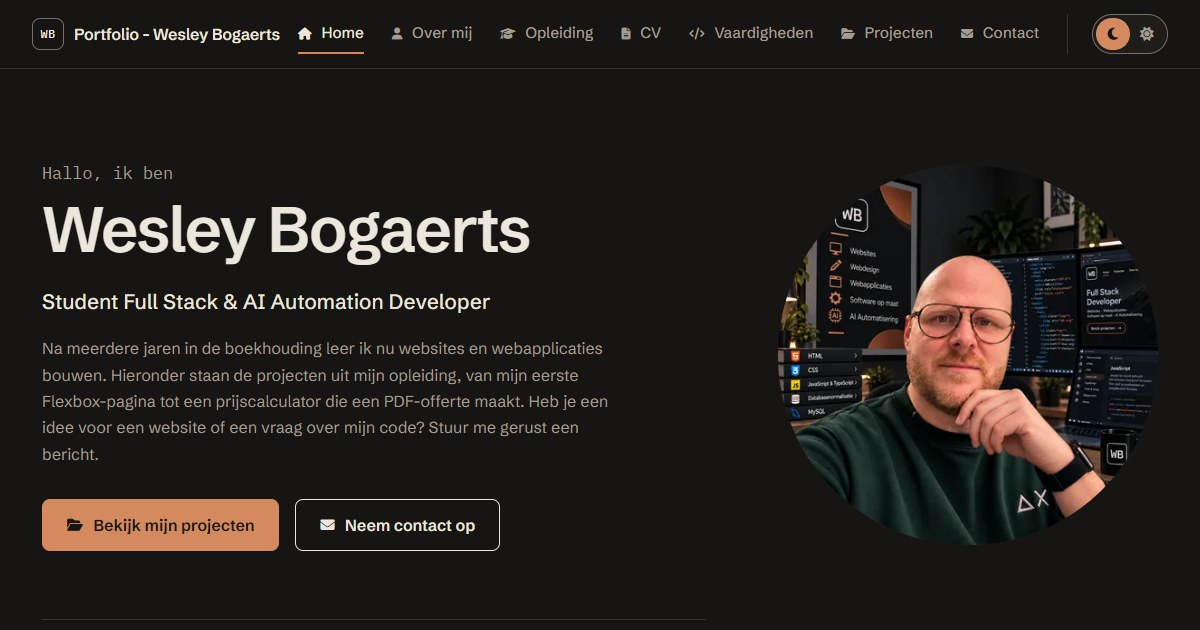
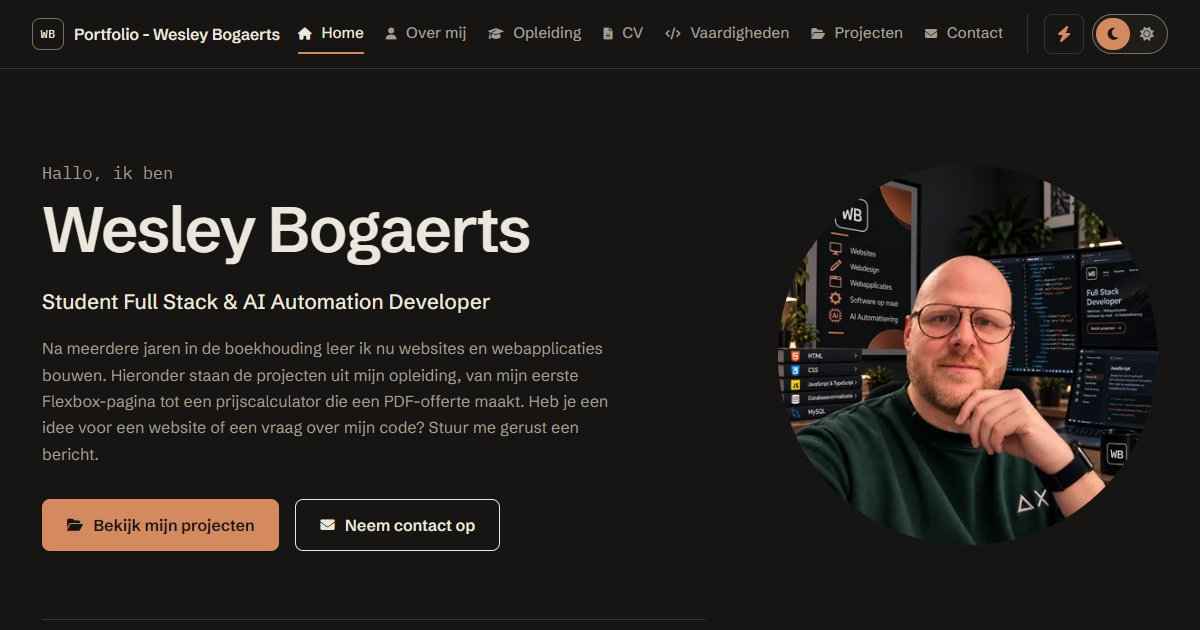
chore: nieuwe screenshots van het portfolio en de deelafbeelding, bump to v99
Met de bliksemknop in de header. De deelafbeelding heeft een nieuw adres
(?v=2), zodat sociale media de nieuwe versie ophalen.

Changed region(s): [[0.3083, 0.0302, 0.8942, 0.0603]]

diff --git a/index.html b/index.html
@@ -15,7 +15,7 @@
     <meta property="og:type" content="website">
     <meta property="og:url" content="https://wesley-dev-tech.github.io/Portfolio/">
     <!-- Voorbeeldafbeelding bij delen op LinkedIn, WhatsApp en andere platformen -->
-    <meta property="og:image" content="https://wesley-dev-tech.github.io/Portfolio/images/og-image.jpg">
+    <meta property="og:image" content="https://wesley-dev-tech.github.io/Portfolio/images/og-image.jpg?v=2">
     <meta property="og:image:width" content="1200">
     <meta property="og:image:height" content="630">
     <meta property="og:image:alt" content="Startpagina van het portfolio van Wesley Bogaerts">
@@ -34,13 +34,13 @@
     <link rel="stylesheet"
         href="https://fonts.googleapis.com/css2?family=IBM+Plex+Mono:wght@400;500&family=Schibsted+Grotesk:wght@400;500;600;700&display=swap">
 
-    <link rel="stylesheet" href="style.css?v=98">
-    <link rel="icon" href="favicon.ico?v=98" sizes="16x16 32x32 48x48">
+    <link rel="stylesheet" href="style.css?v=99">
+    <link rel="icon" href="favicon.ico?v=99" sizes="16x16 32x32 48x48">
     <link rel="apple-touch-icon" href="apple-touch-icon.png">
 
     <!-- In de head, zodat het thema al staat voor de pagina getekend wordt.
          De rest van script.js wacht zelf tot de HTML geladen is. -->
-    <script src="script.js?v=98"></script>
+    <script src="script.js?v=99"></script>
 </head>
 
 <body>

diff --git a/README.md b/README.md
@@ -40,7 +40,7 @@ The light theme uses warm off-white "paper" tones, near-black text and a deeper 
 
 All colors, radii and spacing live as CSS variables at the top of `style.css`. Type is set in Schibsted Grotesk, with IBM Plex Mono for small technical details such as section numbers, labels and the scrolling text bar.
 
-The CSS and JavaScript URLs in `index.html` share one version query string (`?v=98`). Raise both numbers together after a change so browsers load the new files.
+The CSS and JavaScript URLs in `index.html` share one version query string (`?v=99`). Raise both numbers together after a change so browsers load the new files.
 
 ## How to View
 
